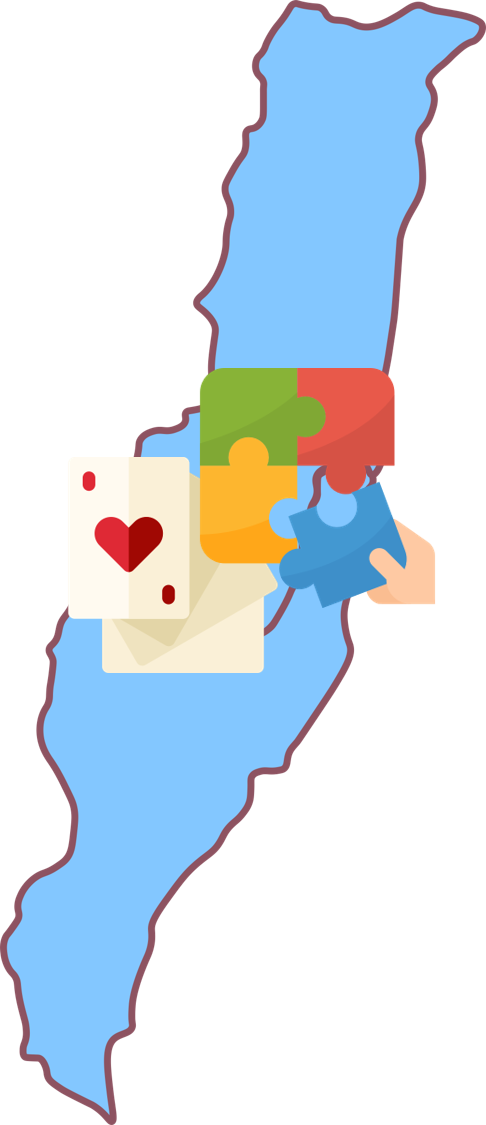
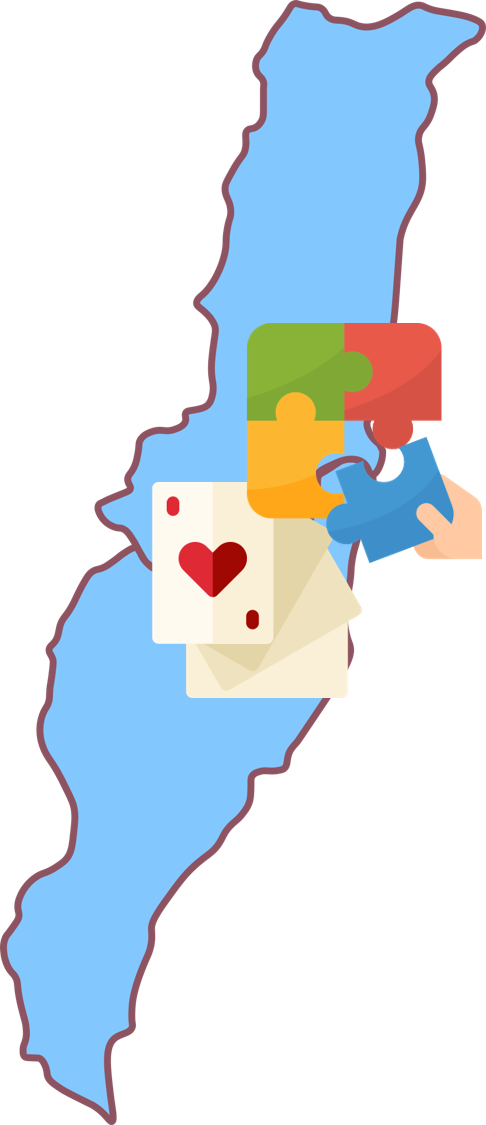
Modify eastRegion to let the image on top

Changed region(s): [[0.1235, 0.28, 1.0, 0.6222]]

diff --git a/CSS/game/game_home.css b/CSS/game/game_home.css
@@ -65,7 +65,7 @@ body {
     width: 117px;
     left: 194px;
     top: 161px;
-    z-index: 2;
+    /* z-index: 2; */
 }
 
 .westImg {
